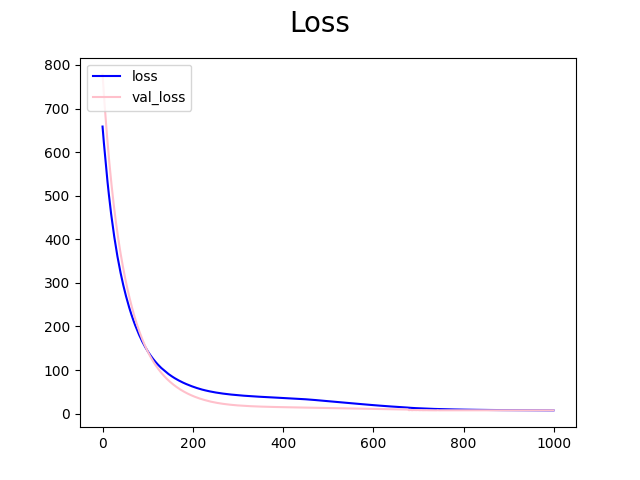
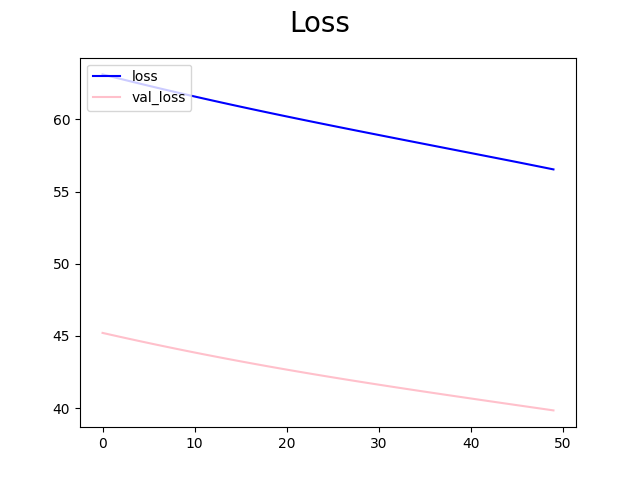
latest changes

diff --git a/openvsp_api/main_analysis.py b/openvsp_api/main_analysis.py
@@ -93,7 +93,7 @@ MLInputDataNp = np.array(MLInputData)
 MLOutputDataNp = np.array(MLOutputData)
 trainInput, valInput, testInput, trainOutput, valOutput, testOutput = split_data_for_model(MLInputDataNp, MLOutputDataNp)
 model = create_neural_network(trainOutput)
-hist = train_neural_network(trainInput, trainOutput, valInput, valOutput, 1000)
+hist = train_neural_network(model, trainInput, trainOutput, valInput, valOutput, 50)
 plot_loss(hist)
 
 # predict outputs
@@ -102,21 +102,25 @@ predictedOutput = model.predict(testInput)
 calculatedLDs = []
 for index, sample_params in enumerate(predictedOutput):
     vsp.VSPRenew()
-
+    sample_params_list = list(sample_params)
+    sample_params_list = [float(f) for f in sample_params_list]
     sample_output_dir = os.path.join(outputParentDir, f'model_test_sample_{index}')
     os.makedirs(sample_output_dir, exist_ok=True)
     vsp_file = os.path.join(sample_output_dir, 'wing_geom.vsp3')
+
     create_wing(
             outputFile = vsp_file,
-            aspectRatio = sample_params[0],
-            span = sample_params[1],
-            taper = sample_params[2],
-            sweep = sample_params[3],
-            thickChord = sample_params[4],
-            camber = sample_params[5],
-            camberLoc = sample_params[6]
+            aspectRatio = sample_params_list[0],
+            span = sample_params_list[1],
+            taper = sample_params_list[2],
+            sweep = sample_params_list[3],
+            thickChord = sample_params_list[4],
+            camber = sample_params_list[5],
+            camberLoc = sample_params_list[6]
     )
     Xref, Sref = get_Xref_and_Sref(vsp_file)
+    print(Sref)
+    print(sample_params_list)
     
     vlm_analysis_output_file = os.path.join(sample_output_dir, 'wing_geom_DegenGeom.polar')
     analyse_VLM(AoAStart, AoAEnd, AlphaNpts, Xref, Sref)
@@ -124,5 +128,5 @@ for index, sample_params in enumerate(predictedOutput):
     calculatedLDs.append(vlm_ld)
     
 
-print(testInput, calculatedLDs)
-print(f'RMSE = {calculate_rmse((testInput, calculatedLDs))}')
+print(list(testInput), calculatedLDs)
+print(f'RMSE = {calculate_rmse(list(testInput), calculatedLDs)}')

diff --git a/openvsp_api/generation_functions.py b/openvsp_api/generation_functions.py
@@ -41,7 +41,7 @@ def create_wing(
     vsp.SetParmVal(wing, "Span", "XSec_1", span)
     vsp.SetParmVal(wing, "Taper", "XSec_1", taper)
     vsp.SetParmVal(wing, "Sweep", "XSec_1", sweep)
-    #vsp.InsertXSec(wing, 0, vsp.XS_FOUR_SERIES)
+    vsp.InsertXSec(wing, 0, vsp.XS_FOUR_SERIES)
     vsp.SetParmVal(wing, "ThickChord", "XSecCurve_0", thickChord)
     vsp.SetParmVal(wing, "Camber", "XSecCurve_0", camber)
     vsp.SetParmVal(wing, "CamberLoc", "XSecCurve_0", camberLoc)
